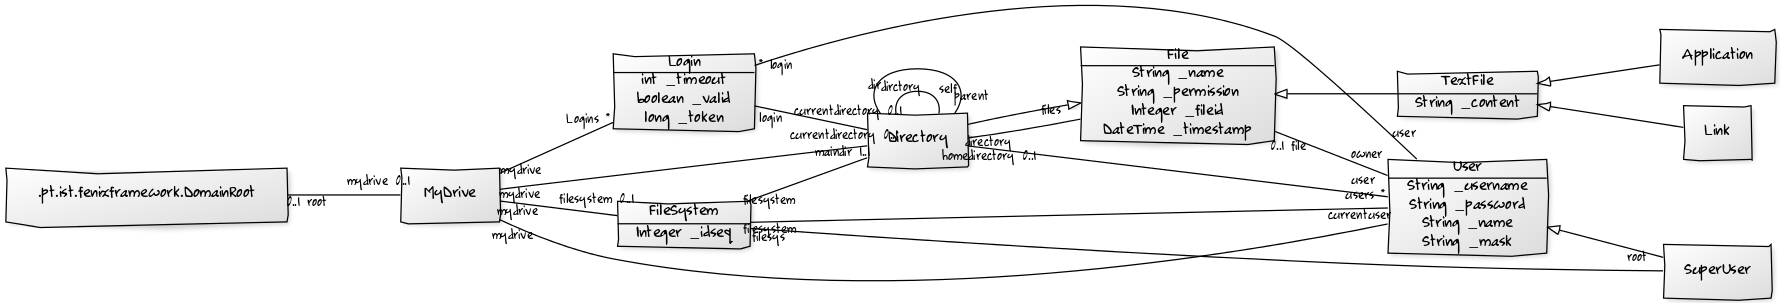
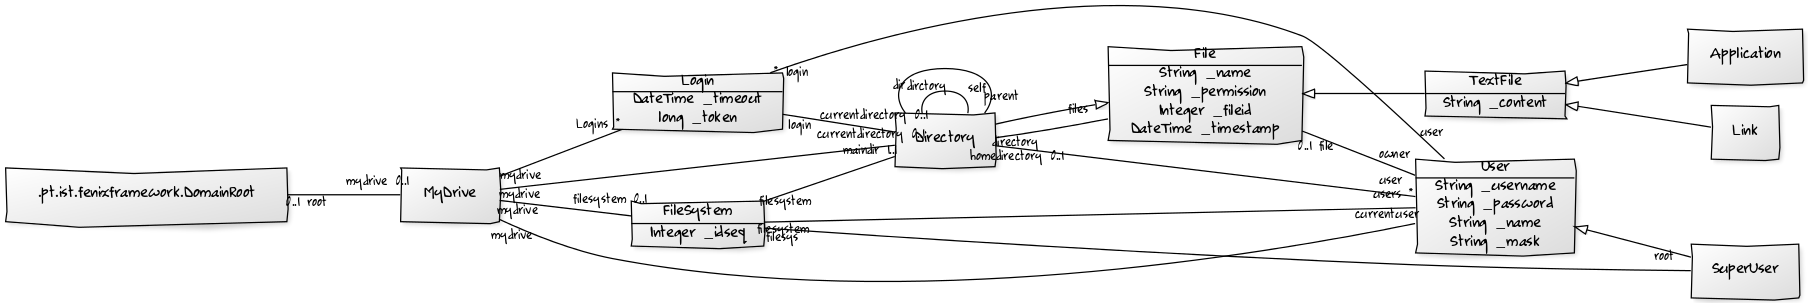
Functional Timeout

diff --git a/src/main/java/pt/tecnico/mydrive/domain/MyDrive.java b/src/main/java/pt/tecnico/mydrive/domain/MyDrive.java
@@ -23,7 +23,7 @@ import pt.tecnico.mydrive.domain.FileSystem;
 
 		public MyDrive(){
 
-			//a noção de diretoria atual deixa de ser do mydrive e passa a ser do Login!!!	
+			//a noção de diretoria atual deixa de ser do mydrive e passa a ser do Login!!!
 
 			setRoot(FenixFramework.getDomainRoot());
 			if(this.getFilesystem()==null) {
@@ -127,9 +127,11 @@ import pt.tecnico.mydrive.domain.FileSystem;
 
 					for(Login log: getLoginsSet()){
 
-					if( !( log.get_valid() )){
-						getLoginsSet().remove(log);
-					}
+						DateTime now = new DateTime();
+
+						if( now.isAfter(log.get_timeout())){
+							getLoginsSet().remove(log);
+						}
 
 					}
 
@@ -146,7 +148,7 @@ import pt.tecnico.mydrive.domain.FileSystem;
 			}
 
 	public Login getLoginbyToken(long token) throws LoginDoesNotExistException  {
-		
+
     	for( Login login: getLoginsSet()){
       		if( login.get_token()==token ){
         		return login;
@@ -160,4 +162,3 @@ import pt.tecnico.mydrive.domain.FileSystem;
 
 
 	}
-

diff --git a/src/main/java/pt/tecnico/mydrive/domain/Login.java b/src/main/java/pt/tecnico/mydrive/domain/Login.java
@@ -11,15 +11,25 @@ public class Login extends Login_Base{
 
     this.setCurrentdirectory(user.getHomedirectory());
 
-    this.set_valid(true);
-
     Random rand = new Random();
 
     long token = rand.nextLong();
 
-    this.set_token(token);
-    
+    DateTime now = new DateTime();
 
-    this.set_timeout(0);
+    DateTime limit = now.plusHours(2);
+
+    this.set_timeout(limit);
   }
+
+  public void resetTimer(){
+
+    DateTime now = new DateTime();
+
+    DateTime limit = now.plusHours(2);
+
+    this.set_timeout(limit);
+
+  }
+
 }
